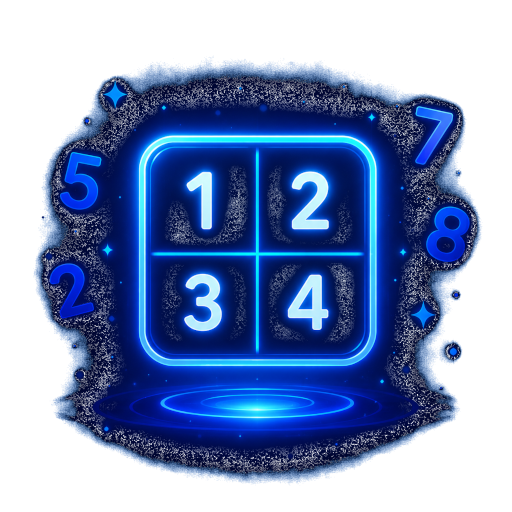
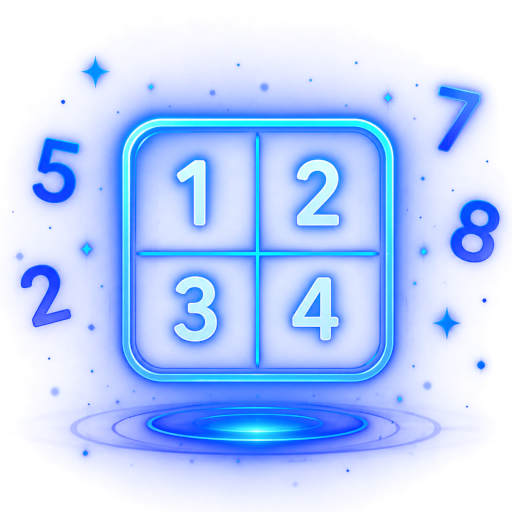
Ajedrez: modo con reloj y vista 3D (perspectiva CSS)
Reloj de ajedrez:
- Controles Sin / 3+2 / 5m / 10m. Dos relojes (♚/♔) que descuentan el tiempo
  del bando que mueve; incremento al completar la jugada (3+2). Al agotarse,
  pierde por tiempo ("Tiempo — ganan ..."). Se reinician en juego nuevo.

Vista 3D (toggle, sin assets):
- Tablero en ligera perspectiva (perspective + rotateX) y piezas con relieve
  (contra-rotación + sombra extruida) para dar apariencia 3D. Combinado con la
  animación de deslizamiento. Es opcional; off por defecto.
- (Para 3D fotorrealista se podrían usar PNG de piezas 3D más adelante.)

i18n es/en. 78 tests, lint/build OK. Verificado por capturas.

diff --git a/src/games/ajedrez/AjedrezGame.tsx b/src/games/ajedrez/AjedrezGame.tsx
@@ -26,6 +26,42 @@ type Mode = 'hotseat' | 'ai';
 const AI_COLOR: Color = 'b'; // la IA juega con negras; el humano, blancas
 const LEVELS: Level[] = ['easy', 'medium', 'hard'];
 
+type ClockId = 'off' | '3+2' | '5' | '10';
+const TIME_CONTROLS: Record<ClockId, { base: number; inc: number }> = {
+  off: { base: 0, inc: 0 },
+  '3+2': { base: 180_000, inc: 2_000 },
+  '5': { base: 300_000, inc: 0 },
+  '10': { base: 600_000, inc: 0 },
+};
+const CLOCK_IDS: ClockId[] = ['off', '3+2', '5', '10'];
+const CLOCK_LABEL: Record<ClockId, string> = { off: '—', '3+2': '3+2', '5': '5m', '10': '10m' };
+const otherC = (c: Color): Color => (c === 'w' ? 'b' : 'w');
+const fmtClock = (ms: number) => {
+  const s = Math.max(0, Math.ceil(ms / 1000));
+  return `${Math.floor(s / 60)}:${String(s % 60).padStart(2, '0')}`;
+};
+
+// Relieve de la pieza: en vista 3D, sombra "extruida" para simular volumen.
+function pieceShadow(c: Color, view3d: boolean): string {
+  if (view3d) {
+    return c === 'w'
+      ? '0 1px 0 #99a, 0 2px 0 #778, 0 4px 6px rgba(0,0,0,0.6), 0 0 1px #000'
+      : '0 1px 0 #000, 0 2px 0 #000, 0 4px 6px rgba(0,0,0,0.65), 0 0 1px #888';
+  }
+  return c === 'w'
+    ? '0 0 1px #000, 0 1px 2px rgba(0,0,0,0.6)'
+    : '0 0 1px #fff, 0 1px 2px rgba(255,255,255,0.3)';
+}
+
+// Transform de la pieza: combina el deslizamiento (animación) con la vista 3D
+// (contra-rotación para que la pieza "se pare" y se eleve sobre el tablero).
+function pieceTransform(slide: { tx: number; ty: number } | null, view3d: boolean): string | undefined {
+  const parts: string[] = [];
+  if (slide) parts.push(`translate(${slide.tx}%, ${slide.ty}%)`);
+  if (view3d) parts.push('rotateX(-13deg) translateZ(calc(var(--cs) * 0.28))');
+  return parts.length ? parts.join(' ') : undefined;
+}
+
 export default function AjedrezGame({ onScore, onExit }: GameProps) {
   const t = useT();
   const [game, setGame] = useState<State>(() => initialState());
@@ -38,8 +74,24 @@ export default function AjedrezGame({ onScore, onExit }: GameProps) {
   const [mode, setMode] = useState<Mode>('hotseat');
   const [level, setLevel] = useState<Level>('medium');
   const [thinking, setThinking] = useState(false);
+  const [clockId, setClockId] = useState<ClockId>('off');
+  const [clocks, setClocks] = useState({ w: 0, b: 0 });
+  const clocksRef = useRef(clocks);
+  const [timeoutLoser, setTimeoutLoser] = useState<Color | null>(null);
+  const [view3d, setView3d] = useState(false);
   const submitted = useRef(false);
   const workerRef = useRef<Worker | null>(null);
+
+  const setClk = (c: { w: number; b: number }) => {
+    clocksRef.current = c;
+    setClocks(c);
+  };
+  const resetClocks = useCallback((id: ClockId) => {
+    const base = TIME_CONTROLS[id].base;
+    clocksRef.current = { w: base, b: base };
+    setClocks(clocksRef.current);
+    setTimeoutLoser(null);
+  }, []);
 
   // Worker de IA (no congela la UI). Si falla, se calcula en el hilo principal.
   useEffect(() => {
@@ -55,7 +107,7 @@ export default function AjedrezGame({ onScore, onExit }: GameProps) {
 
   const moves = useMemo(() => legalMoves(game), [game]);
   const st = useMemo(() => status(game), [game]);
-  const over = st === 'checkmate' || st === 'stalemate';
+  const over = st === 'checkmate' || st === 'stalemate' || timeoutLoser !== null;
 
   const targets = useMemo(() => {
     const set = new Set<number>();
@@ -93,9 +145,31 @@ export default function AjedrezGame({ onScore, onExit }: GameProps) {
       } else {
         AudioService.play(capture ? 'pop' : 'click');
       }
+      // Incremento al jugador que acaba de mover
+      const inc = TIME_CONTROLS[clockId].inc;
+      if (inc > 0) {
+        const mv = game.turn;
+        setClk({ ...clocksRef.current, [mv]: clocksRef.current[mv] + inc });
+      }
     },
-    [game, history.length, onScore],
+    [game, history.length, onScore, clockId],
   );
+
+  // Reloj: descuenta el tiempo del bando que mueve.
+  useEffect(() => {
+    if (clockId === 'off' || over || pendingPromo) return;
+    let last = Date.now();
+    const id = setInterval(() => {
+      const now = Date.now();
+      const d = now - last;
+      last = now;
+      const side = game.turn;
+      const nv = Math.max(0, clocksRef.current[side] - d);
+      setClk({ ...clocksRef.current, [side]: nv });
+      if (nv === 0) setTimeoutLoser(side);
+    }, 200);
+    return () => clearInterval(id);
+  }, [game, clockId, over, pendingPromo]);
 
   // Turno de la IA (juega negras en modo "vs IA"); calcula en el worker.
   useEffect(() => {
@@ -172,6 +246,12 @@ export default function AjedrezGame({ onScore, onExit }: GameProps) {
     setSel(null);
     setAnim(null);
     submitted.current = false;
+    resetClocks(clockId);
+  };
+
+  const pickClock = (id: ClockId) => {
+    setClockId(id);
+    resetClocks(id);
   };
 
   const turnName = (c: Color) => (c === 'w' ? t('chess.white') : t('chess.black'));
@@ -179,7 +259,8 @@ export default function AjedrezGame({ onScore, onExit }: GameProps) {
   if (st === 'check') statusText = `${t('chess.check')} · ${turnName(game.turn)}`;
   else if (st === 'checkmate') statusText = `${t('chess.checkmate')} ${turnName(game.turn === 'w' ? 'b' : 'w')}`;
   else if (st === 'stalemate') statusText = t('chess.stalemate');
-  if (thinking) statusText = t('chess.thinking');
+  if (timeoutLoser) statusText = `${t('chess.timeout')} ${turnName(otherC(timeoutLoser))}`;
+  if (thinking && !over) statusText = t('chess.thinking');
 
   const pickMode = (m: Mode) => {
     setMode(m);
@@ -237,10 +318,54 @@ export default function AjedrezGame({ onScore, onExit }: GameProps) {
         </div>
       )}
 
-      <div className="relative">
+      <div className="mb-2 flex w-full items-center gap-1.5 px-3 text-xs">
+        <span className="text-app-muted">{t('chess.clock')}</span>
+        {CLOCK_IDS.map((id) => (
+          <button
+            key={id}
+            onClick={() => pickClock(id)}
+            className={`rounded-lg px-2 py-1 font-semibold ${
+              clockId === id ? 'bg-brand text-white' : 'bg-app-surface/80 text-app-muted'
+            }`}
+          >
+            {id === 'off' ? t('chess.noClock') : CLOCK_LABEL[id]}
+          </button>
+        ))}
+        <button
+          onClick={() => setView3d((v) => !v)}
+          className={`ml-auto rounded-lg px-2 py-1 font-semibold ${
+            view3d ? 'bg-brand text-white' : 'bg-app-surface/80 text-app-muted'
+          }`}
+        >
+          🧊 {t('chess.view3d')}
+        </button>
+      </div>
+
+      {clockId !== 'off' && (
+        <div className="mb-2 flex w-full justify-between px-3 font-mono text-lg">
+          <span
+            className={`rounded px-3 py-1 ${game.turn === 'b' && !over ? 'bg-brand text-white' : 'bg-app-surface/70 text-app-text'}`}
+          >
+            ♚ {fmtClock(clocks.b)}
+          </span>
+          <span
+            className={`rounded px-3 py-1 ${game.turn === 'w' && !over ? 'bg-brand text-white' : 'bg-app-surface/70 text-app-text'}`}
+          >
+            ♔ {fmtClock(clocks.w)}
+          </span>
+        </div>
+      )}
+
+      <div className="relative" style={{ perspective: view3d ? '1100px' : undefined }}>
         <div
           className="grid shadow-xl"
-          style={{ gridTemplateColumns: `repeat(8, var(--cs))` }}
+          style={{
+            gridTemplateColumns: `repeat(8, var(--cs))`,
+            transform: view3d ? 'rotateX(13deg)' : undefined,
+            transformStyle: view3d ? 'preserve-3d' : undefined,
+            transformOrigin: 'center',
+            transition: 'transform 0.4s ease',
+          }}
         >
           {game.board.map((p, i) => {
             const dark = (row(i) + col(i)) % 2 === 1;
@@ -256,6 +381,7 @@ export default function AjedrezGame({ onScore, onExit }: GameProps) {
                   width: 'var(--cs)',
                   height: 'var(--cs)',
                   backgroundColor: isSel ? '#fde68a' : dark ? '#9a6b43' : '#e9d2ad',
+                  transformStyle: view3d ? 'preserve-3d' : undefined,
                 }}
               >
                 {/* marca de destino */}
@@ -271,11 +397,8 @@ export default function AjedrezGame({ onScore, onExit }: GameProps) {
                     style={{
                       fontSize: 'calc(var(--cs) * 0.82)',
                       color: p.c === 'w' ? '#fff' : '#1e1e1e',
-                      textShadow:
-                        p.c === 'w'
-                          ? '0 0 1px #000, 0 1px 2px rgba(0,0,0,0.6)'
-                          : '0 0 1px #fff, 0 1px 2px rgba(255,255,255,0.3)',
-                      transform: animating ? (slid ? 'none' : `translate(${anim.tx}%, ${anim.ty}%)`) : undefined,
+                      textShadow: pieceShadow(p.c, view3d),
+                      transform: pieceTransform(animating && !slid ? anim : null, view3d),
                       transition: animating ? 'transform 0.25s ease' : undefined,
                     }}
                   >

diff --git a/src/core/i18n.ts b/src/core/i18n.ts
@@ -112,6 +112,10 @@ const es: Dict = {
   'chess.level.easy': 'Fácil',
   'chess.level.medium': 'Medio',
   'chess.level.hard': 'Difícil',
+  'chess.clock': 'Reloj',
+  'chess.noClock': 'Sin',
+  'chess.view3d': '3D',
+  'chess.timeout': 'Tiempo —',
 
   'glotono.help':
     'Flechas / WASD o desliza para moverte. Absorbe un orbe grande para volverte contra los virus. Limpia el laberinto para subir de nivel.',
@@ -264,6 +268,10 @@ const en: Dict = {
   'chess.level.easy': 'Easy',
   'chess.level.medium': 'Medium',
   'chess.level.hard': 'Hard',
+  'chess.clock': 'Clock',
+  'chess.noClock': 'Off',
+  'chess.view3d': '3D',
+  'chess.timeout': 'Time —',
 
   'glotono.help':
     'Arrows / WASD or swipe to move. Absorb a big orb to turn on the viruses. Clear the maze to level up.',